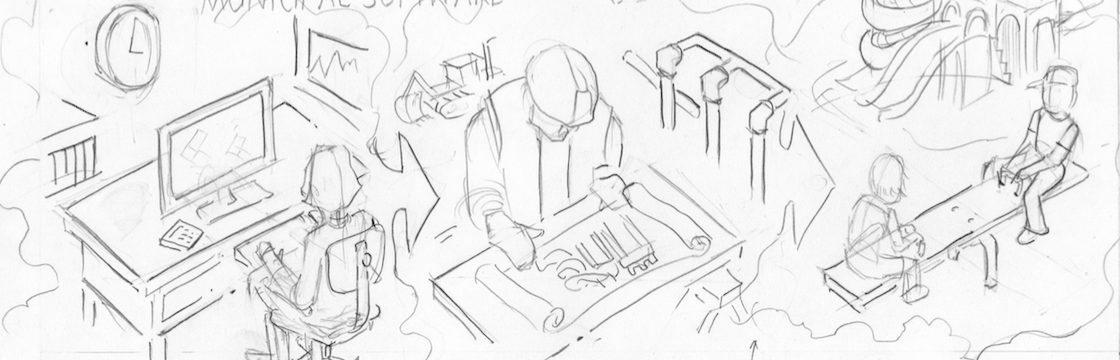
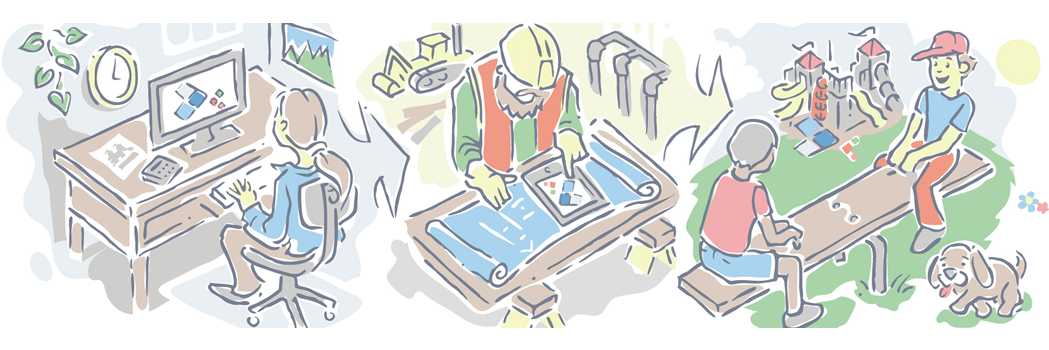
add header
test header image

diff --git a/index.html b/index.html
@@ -151,8 +151,8 @@
 	                        <div class="media-text__wrapper">
 	                            <div class="media-text__media">
 	                                <h2 class="media-text__header media-text__header--responsive">Work within one product</h2>
-	                                <img src="./assets/black.png" data-hi-res-no-resize="True" data-hi-res="./assets/black.png" alt="" class="media-text__image--responsive media-text__image" />
-	                                <div style="width:458px; height:240px;" data-scale-down="false" data-implementation-width="458" class="animator" data-implementation-height="240" ><img src="./assets/black.png" data-hi-res="./assets/black.png" alt="" class="animator-poster" />
+	                                <img src="./assets/oneproduct.png" data-hi-res-no-resize="True" data-hi-res="./assets/oneproduct.png" alt="" class="media-text__image--responsive media-text__image" />
+	                                <div style="width:458px; height:240px;" data-scale-down="false" data-implementation-width="458" class="animator" data-implementation-height="240" ><img src="./assets/oneproduct.png" data-hi-res="./assets/oneproduct.png" alt="" class="animator-poster" />
 	                                </div>
 	                            </div>
 	                        </div>
